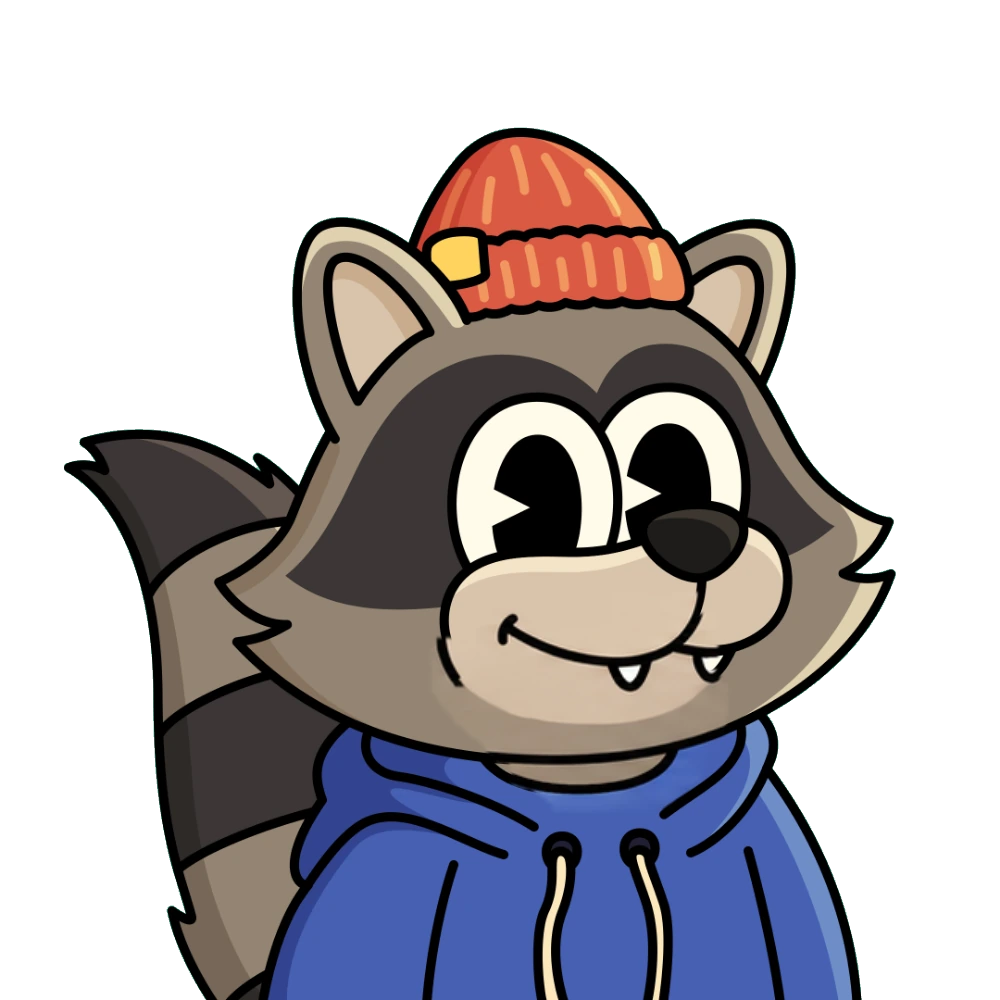
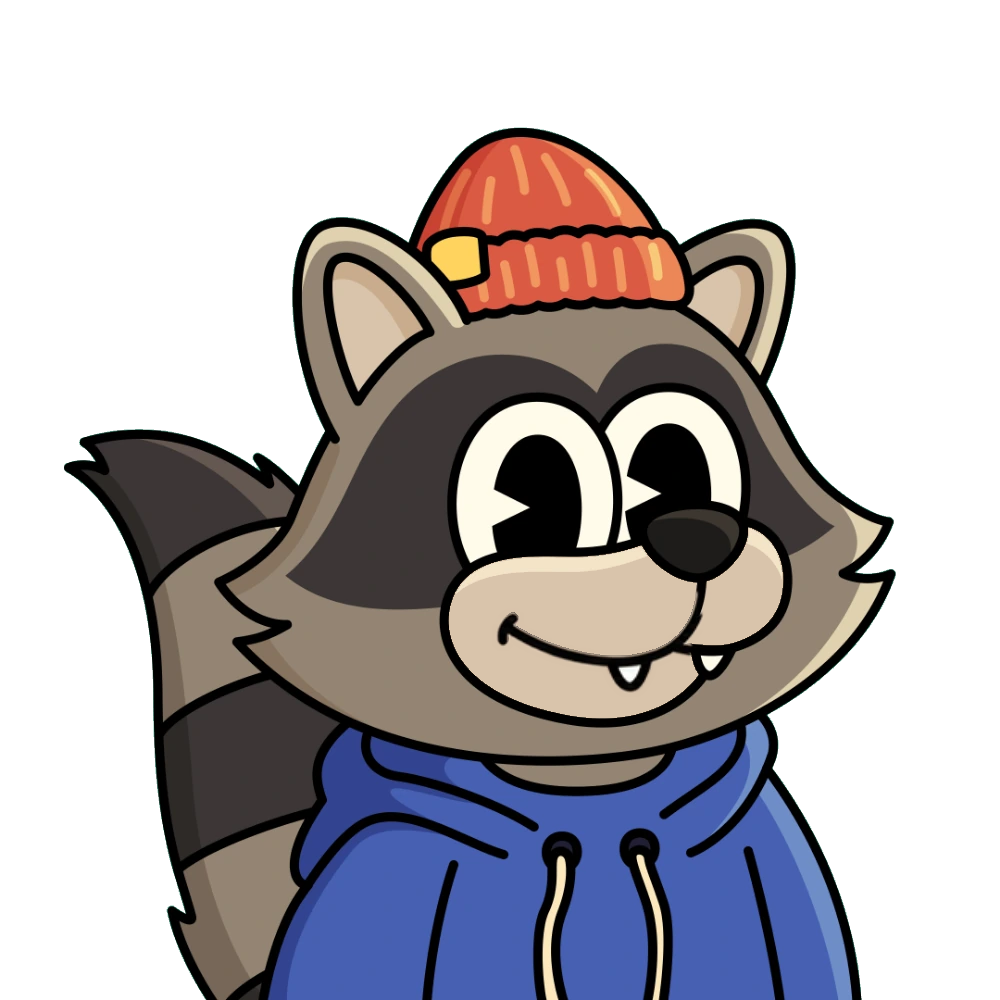
Talking mouths: cleaner kits and mouth frames for every kind
- Raccoon, Gnome and Gecko kits: the reference mouths the sheets smeared (raccoon muzzle outline missing on M/B/P, F/V and frown; a blurry patch on the gnome; mouths drawn into the gecko's closed frames) are repaired, so every Nibble of those kinds stops inheriting the smudge
- Things in front of the mouth (mustache, straw, match, gum bubble, dark magic) stay whole on top of every talking mouth instead of being cut where the mouth area ends; a talking mouth still shows through a mustache
- A Nibble's own bigger mouth (a wide beak, a big grin) no longer leaves its outline around the new mouth
- Teeth stay white (no more yellow or navy grins), and a skin colour the face doesn't have (a mauve chin) snaps to the face's own

Claude-Session: https://claude.ai/code/session_01AAjfD4JXrwKrGtAMJHTTVa

Changed region(s): [[0.434, 0.62, 0.682, 0.806], [0.651, 0.62, 0.713, 0.713]]

diff --git a/kit.js b/kit.js
@@ -123,7 +123,7 @@ function colourMap(R, T, where, okT) {
 
 // T: this Nibble's picture (background cut, 1000 px). ref: { base, mouths[10], eyes[5] } of the kind's reference.
 // Returns { frames[10], eyes[5], mouthBox, eyeBox } in the builder's format.
-export function fromKit(Timg, ref, { blink = true, dbg = null, wideFace = false, loopBody = false } = {}) {
+export function fromKit(Timg, ref, { blink = true, dbg = null, wideFace = false, loopBody = false, front = false } = {}) {
   const T = data(Timg), R = data(ref.base), K = ref.mouths.map(data);
   // Gemini's panels have small dark flecks in the fur: a dark spot too small to be part of a line takes the colour around it
   for (let k = 1; k < 10; k++) unfleck(K[k]);
@@ -271,6 +271,15 @@ export function fromKit(Timg, ref, { blink = true, dbg = null, wideFace = false,
   // this Nibble's own face colours around the mouth (a jaw shade must be one of these, not e.g. a yellow logo elsewhere)
   const tf = new Uint32Array(32768); for (let p = 0; p < N * N; p++) { if (!ring[p] && !Zd[p]) continue; const i = p * 4; if (T[i + 3] > 200) tf[bin(T[i], T[i + 1], T[i + 2])]++; }
   const faceP = palette(tf, 40, 2);
+  // the same colours as a list (mouth colours left out), to snap a recoloured skin pixel the map got wrong (a mauve chin on
+  // a white raccoon) to the nearest colour this Nibble's face really has
+  const faceList = []; { const sum = new Map();
+    for (let p = 0; p < N * N; p++) { if (!ring[p] && !Zd[p]) continue; const i = p * 4; if (T[i + 3] < 200 || lum(T, i) < 160 || mouthHue(T[i], T[i + 1], T[i + 2])) continue; const k = bin(T[i], T[i + 1], T[i + 2]);
+      let e = sum.get(k); if (!e) sum.set(k, e = [0, 0, 0, 0]); e[0] += T[i]; e[1] += T[i + 1]; e[2] += T[i + 2]; e[3]++; }
+    for (const e of sum.values()) if (e[3] >= 60) faceList.push([e[0] / e[3], e[1] / e[3], e[2] / e[3], e[3]]); }
+  const snapFace = m => { if (!faceList.length || inPal(faceP, m[0], m[1], m[2])) return m; let best = null, bd = 1e9;
+    for (const c of faceList) { const d = Math.abs(c[0] - m[0]) + Math.abs(c[1] - m[1]) + Math.abs(c[2] - m[2]); if (d < bd) { bd = d; best = c; } }
+    return best && bd < 160 ? [Math.round(best[0]), Math.round(best[1]), Math.round(best[2])] : m; };
   // this Nibble's own chin: its commonest light, non-mouth colour just below the mouth area (for skin the map can't match)
   // the reference's jaw skin: its light colours inside the mouth area that aren't snout, mouth, or its clothes (clothes reach the bottom of the picture)
   const jawC = new Uint32Array(32768), botC = new Uint32Array(32768);
@@ -353,13 +362,45 @@ export function fromKit(Timg, ref, { blink = true, dbg = null, wideFace = false,
     for (let p = 0; p < N * N; p++) { const i = p * 4, w = a[p];
       if (w <= 0) { o[i] = T[i]; o[i + 1] = T[i + 1]; o[i + 2] = T[i + 2]; o[i + 3] = T[i + 3]; continue; }
       const f = fill.get(p);
-      const m = f ? f : subst.has(p) ? subst.get(p) : keepT[p] ? [T[i], T[i + 1], T[i + 2]] : (mapped(D, i) || [T[i], T[i + 1], T[i + 2]]), da = f ? 255 : keepT[p] ? T[i + 3] : D[i + 3];
+      // teeth stay white: a white the mouth draws where the reference had no white there is teeth, never recoloured as skin
+      const teeth = !f && !keepT[p] && D[i + 3] > 200 && D[i] + D[i + 1] + D[i + 2] > 630 && Math.max(D[i], D[i + 1], D[i + 2]) - Math.min(D[i], D[i + 1], D[i + 2]) < 40 && !(R[i + 3] > 200 && R[i] + R[i + 1] + R[i + 2] > 600);
+      let m = f ? f : teeth ? [D[i], D[i + 1], D[i + 2]] : subst.has(p) ? subst.get(p) : keepT[p] ? [T[i], T[i + 1], T[i + 2]] : (mapped(D, i) || [T[i], T[i + 1], T[i + 2]]); const da = f ? 255 : keepT[p] ? T[i + 3] : D[i + 3];
+      if (!f && !teeth && !keepT[p] && !subst.has(p) && D[i + 3] > 200 && lum(D, i) >= 160 && !isMouthC(D[i], D[i + 1], D[i + 2])) m = snapFace(m);   // a skin colour this face doesn't have
       for (let ch = 0; ch < 3; ch++) o[i + ch] = Math.round(T[i + ch] * (1 - w) + m[ch] * w);
       o[i + 3] = Math.round(T[i + 3] * (1 - w) + da * w);
       if (useG[p]) { const x = p % N, y = (p / N) | 0; if (x < mb[0]) mb[0] = x; if (y < mb[1]) mb[1] = y; if (x > mb[2]) mb[2] = x; if (y > mb[3]) mb[3] = y; }
     }
     g.putImageData(id, 0, 0); frames.push(c);
   }
+  // This Nibble's own things where the mouth zone ends: the parts of it that differ from the reference (its own mouth
+  // trait, a mustache, a straw, dark magic...) that reach out past the zone. Two kinds:
+  //  - in front of the mouth (front: a mustache, straw, match, gum bubble, dark magic): drawn back over every talking
+  //    mouth, whole, so they never get cut off where the zone ends
+  //  - its own bigger mouth (a wide open beak, a big grin): the part past the zone is painted as the reference's face
+  //    there, so the old mouth's outline doesn't hang around the new one
+  { const zone = grow(Zd, 140), dif = new Uint8Array(N * N);
+    for (let p = 0; p < N * N; p++) { if (!zone[p]) continue; const i = p * 4; if (T[i + 3] < 100 && R[i + 3] < 100) continue;
+      if (Math.abs(T[i + 3] - R[i + 3]) > 80) { dif[p] = 1; continue; } const m = mapped(R, i); if (m && Math.abs(m[0] - T[i]) + Math.abs(m[1] - T[i + 1]) + Math.abs(m[2] - T[i + 2]) > 80) dif[p] = 1; }
+    const lab = new Int32Array(N * N), q = new Int32Array(N * N), fr = new Uint8Array(N * N), bh = new Uint8Array(N * N); let id = 0;
+    for (let s0 = 0; s0 < N * N; s0++) { if (!dif[s0] || lab[s0]) continue; id++; let h = 0, t = 0, inZ = 0; q[t++] = s0; lab[s0] = id;
+      while (h < t) { const p = q[h++], x = p % N; if (Zd[p]) inZ++;
+        for (const j of [x > 0 ? p - 1 : -1, x < N - 1 ? p + 1 : -1, p - N, p + N]) if (j >= 0 && j < N * N && dif[j] && !lab[j]) { lab[j] = id; q[t++] = j; } }
+      const out = t - inZ; if (!inZ || out < 40) continue;
+      if (front) { for (let k = 0; k < t; k++) fr[q[k]] = 1; continue; }
+      if (inZ < t * 0.25 || t > 30000) continue;   // mostly outside the mouth: clothes, a collar, not the mouth
+      for (let k = 0; k < t; k++) { const p = q[k], i = p * 4; if (Zd[p] || R[i + 3] < 200 || T[i + 3] < 100) continue; if (isSkin(R, i) || lum(R, i) < 160) bh[p] = 1; } }
+    let any = false; for (let p = 0; p < N * N && !any; p++) if (fr[p] || bh[p]) any = true;
+    if (any) {
+      const frm = front ? fillHoles(fr) : fr, fa = front ? soft(grow(frm, 1), 1) : null;
+      for (let k = 1; k < frames.length; k++) { const g = frames[k].getContext('2d', { willReadFrequently:true }), id2 = g.getImageData(0, 0, N, N), o = id2.data, D = K[k];
+        // (a mustache lets the talking mouth show through it, outline and all: only what the mouth leaves as face is covered)
+        const mo = front === 'mustache' ? (() => { const c = new Uint8Array(N * N); for (let p = 0; p < N * N; p++) { const i = p * 4; if (Zd[p] && D[i + 3] > 120 && dist(D, i, R, i) > 60 && (isMouthC(D[i], D[i + 1], D[i + 2]) || lum(D, i) < 200)) c[p] = 1; } return grow(blobs(c, 40), 2); })() : null;
+        for (let p = 0; p < N * N; p++) { const i = p * 4;
+          if (fa && fa[p] > 0 && !(mo && mo[p])) { const w = fa[p]; for (let ch = 0; ch < 4; ch++) o[i + ch] = Math.round(o[i + ch] * (1 - w) + T[i + ch] * w); continue; }
+          if (bh[p]) { const m = mapped(R, i); if (m) { o[i] = m[0]; o[i + 1] = m[1]; o[i + 2] = m[2]; o[i + 3] = R[i + 3]; } } }
+        g.putImageData(id2, 0, 0); }
+      for (let p = 0; p < N * N; p++) if (frm[p] || bh[p]) { const x = p % N, y = (p / N) | 0; if (x < mb[0]) mb[0] = x; if (y < mb[1]) mb[1] = y; if (x > mb[2]) mb[2] = x; if (y > mb[3]) mb[3] = y; }
+    } }
   if (mb[2] < mb[0]) mb = [0, 0, 0, 0];
   // the blink: the reference's half-closed and closed eye layers, recoloured
   let eyes = [null, null, null, null, null], eb = [0, 0, 0, 0];

diff --git a/index.html b/index.html
@@ -418,7 +418,7 @@ header .credit b{font-weight:400}
 // Config
 // ---------------------------------------------------------------------------
 const MP_VERSION = '0.10.14';
-const ART_V = '20261116-1400';   // bump when art changes, so phones never show old cached frames
+const ART_V = '20261116-1600';   // bump when art changes, so phones never show old cached frames
 const MP_MODEL = 'https://storage.googleapis.com/mediapipe-models/face_landmarker/face_landmarker/float16/1/face_landmarker.task';
 
 // Each Nibble: eye layers e0–e4 and ten whole-face mouth frames m0–m9, all lined up at 1000×1000.
@@ -919,8 +919,10 @@ const kitFor = t => { const a = t && t.a; if (groupOf(a)) return groupOf(a).ref;
 // eyes that don't blink: fire, lasers, X / knocked out, spirals, slot machines, glasses and anything worn over the eyes
 const NO_BLINK = /fire|ignis|laser|knocked|dizzy|slot|3d|glasses|monocle|robot|anatomy|empty|whites|eyepatch|button|glowing|magic|three|awooga|burglar/i;
 const blinks = a => !NO_BLINK.test(String(a.Eyes || '')) && !/glasses|goggles|visor|opera mask/i.test(String(a.Accessory || ''));
+// things in front of the mouth, kept whole on top of every talking mouth (kit.js)
+const FRONT_MOUTH = /mustache|straw|match|bubbles/i, FRONT_ACC = /dark magic/i;
 const KIT_BUSY = {};
-window.__nf = { setEye:k => { S.forceEye = k; }, setMouth:k => { S.forceMouth = k; }, setPose:p => { S.forcePose = p; }, setShape:n => setShape(n),
+window.__nf = { setEye:k => { S.forceEye = k; }, setMouth:k => { S.forceMouth = k; }, setPose:p => { S.forcePose = p; }, faceAt:id => FACE_AT[id], setShape:n => setShape(n),
   groupShot:async (ids, shape, gl, slots) => {   // (tests) one frame of a group layout
     Object.assign(GLS[shape], gl || {}); if (slots) GLS[shape].slots = slots; setShape(shape);
     VM.people = ids.map(() => ({ smp:[] })); VM.cast = {}; ids.forEach((id, i) => VM.cast[i] = id); VM.same = {}; VM.flip = {}; VM.mirror = {}; VM.group = 'all'; VM.arts = {};
@@ -944,7 +946,8 @@ async function kitPrepare(id) {
       const [B, K] = await Promise.all([import('./builder.js?v=' + ART_V), import('./kit.js?v=' + ART_V)]);
       const im = new Image(); im.crossOrigin = 'anonymous'; im.src = nibblePic(id); await im.decode();
       const cut = B.cutOriginal(im), { art } = await fetchNibble(ref);
-      const res = K.fromKit(cut.canvas, { base:art.base, mouths:art.mouths, eyes:art.eyes }, { blink:blinks(a) && !KIT_NO_BLINK.has(kind) && !(groupOf(a) && groupOf(a).noBlink && groupOf(a).noBlink.test(String(a.Eyes || ''))), wideFace:!!(groupOf(a) && groupOf(a).wideFace), loopBody:!!(groupOf(a) && groupOf(a).loop) });
+      const res = K.fromKit(cut.canvas, { base:art.base, mouths:art.mouths, eyes:art.eyes }, { blink:blinks(a) && !KIT_NO_BLINK.has(kind) && !(groupOf(a) && groupOf(a).noBlink && groupOf(a).noBlink.test(String(a.Eyes || ''))), wideFace:!!(groupOf(a) && groupOf(a).wideFace), loopBody:!!(groupOf(a) && groupOf(a).loop),
+        front:FRONT_ACC.test(String(a.Accessory || '')) ? true : /mustache/i.test(String(a.Mouth || '')) ? 'mustache' : FRONT_MOUTH.test(String(a.Mouth || '')) });
       res.face = FACE_AT[ref];
       res.traits = B.findTraits(cut.canvas, res, kind, cut.bg, { halo:/halo/i.test(String(a.Accessory || '')), fire:/fire/i.test(String(a.Eyes || '')), laser:/laser/i.test(String(a.Eyes || '')) });
       const exp = await B.exportFiles(res, cut.canvas), files = {};

diff --git a/tools/fix_muzzle.py b/tools/fix_muzzle.py
@@ -1,0 +1,45 @@
+# Repairs closed-mouth kit frames whose muzzle the AI sheet smeared (its lower outline gone, the muzzle colour bleeding
+# into the fur): the mouth's own drawing (lines, teeth, fangs, inside) stays; inside the muzzle everything else is the
+# muzzle's own colour from the picture; outside it (the outline, the fur) the picture's own pixels.
+# usage: python3 tools/fix_muzzle.py <id> <seedx,seedy> <k,k,...>   (repo root)
+import sys
+import numpy as np
+from PIL import Image
+from scipy import ndimage
+tid, seed, ks = sys.argv[1], [int(v) for v in sys.argv[2].split(',')], [int(k) for k in sys.argv[3].split(',')]
+base = np.array(Image.open(f'faces/{tid}/base.webp').convert('RGBA')).astype(float)
+lum = lambda a: a[..., 0] * 0.3 + a[..., 1] * 0.59 + a[..., 2] * 0.11
+ink = (lum(base) < 110) | (base[..., 3] < 128)
+lab, n = ndimage.label(~ink); s0 = lab[seed[1], seed[0]]; c0 = base[lab == s0][:, :3].mean(0)
+# the muzzle: the seed's region and every other region of the same colour beside it (the mouth line splits it in parts)
+M = lab == s0
+for _ in range(3):
+    ring = ndimage.binary_dilation(M, iterations=12) & ~M
+    for l in np.unique(lab[ring]):
+        if l == 0: continue
+        R = lab == l
+        if R.sum() < 200 or R.sum() > 60000: continue
+        if np.abs(base[R][:, :3].mean(0) - c0).sum() < 40: M |= R
+M = ndimage.binary_fill_holes(ndimage.binary_closing(M, iterations=6))
+white = (lum(base) > 225) & (np.ptp(base[..., :3], -1) < 30)
+inner = M & ~ink & ~white
+tan = np.median(base[inner][:, :3], 0)
+print('muzzle px', int(M.sum()), 'tan', tan)
+for k in ks:
+    f = np.array(Image.open(f'faces/{tid}/m{k}.webp').convert('RGBA')).astype(float)
+    r, g, b = f[..., 0], f[..., 1], f[..., 2]
+    mouthy = (lum(f) < 100) | ((r > 120) & (g < r * 0.6)) | ((r > 200) & (b > 140) & (g < 170)) | ((lum(f) > 215) & (np.ptp(f[..., :3], -1) < 35))
+    keep = mouthy & M & (f[..., 3] > 200)
+    keep = ndimage.binary_opening(keep, iterations=1)
+    lab2, n = ndimage.label(keep); sz = ndimage.sum(keep, lab2, range(1, n + 1)); keep = np.isin(lab2, [i + 1 for i, s in enumerate(sz) if s >= 25])
+    keep = ndimage.binary_dilation(keep, iterations=2) & M
+    out = base.copy()
+    edge = ink & ~ndimage.binary_erosion(M, iterations=9)   # the muzzle's outline (the picture's own mouth lines inside it go)
+    sel = M & ~keep; out[sel, :3] = np.where(edge[sel][:, None], base[sel][:, :3], tan)
+    # the muzzle's own highlight from the picture where the picture has no mouth drawing there
+    hl = M & ~keep & ~ink & ~white & ~ndimage.binary_dilation(ink & ~edge, iterations=3) & (lum(base) > lum(tan[None, None, :])[0, 0] + 8)
+    out[hl, :3] = base[hl, :3]
+    a = ndimage.gaussian_filter(keep.astype(float), 1.0)[..., None]
+    out = f * a + out * (1 - a)
+    Image.fromarray(np.clip(out, 0, 255).astype(np.uint8), 'RGBA').save(f'faces/{tid}/m{k}.webp', lossless=True)
+    print('fixed', k, int(keep.sum()))

diff --git a/tools/fix_kit_frames.py b/tools/fix_kit_frames.py
@@ -1,0 +1,35 @@
+# Repairs a kit reference's talking frames that the AI sheet drew badly around the mouth (a muzzle outline left out, a
+# blurry patch on the fur): outside the mouth's own drawing (its lines, inside, teeth, tongue, grown a little) the frame
+# takes the original picture's pixels, softly blended at the edge. "copy0" frames have no mouth drawn at all and become
+# the resting mouth.
+# usage: python3 tools/fix_kit_frames.py <id> <k,k,...> [copy0:k,k]   (repo root)
+import sys
+import numpy as np
+from PIL import Image
+from scipy import ndimage
+tid, ks = sys.argv[1], [int(k) for k in sys.argv[2].split(',') if k]
+copy0 = [int(k) for k in sys.argv[3].split(':')[1].split(',')] if len(sys.argv) > 3 else []
+base = np.array(Image.open(f'faces/{tid}/base.webp').convert('RGBA')).astype(float)
+m0 = Image.open(f'faces/{tid}/m0.webp')
+for k in copy0: m0.save(f'faces/{tid}/m{k}.webp', lossless=True); print('copied m0 ->', k)
+def lum(a): return a[..., 0] * 0.3 + a[..., 1] * 0.59 + a[..., 2] * 0.11
+for k in ks:
+    f = np.array(Image.open(f'faces/{tid}/m{k}.webp').convert('RGBA')).astype(float)
+    d = np.abs(f[..., :3] - base[..., :3]).sum(-1)
+    # the mouth's drawing: what changed AND is a line, the dark inside, red, pink or white teeth (not a lighter/darker fur blur)
+    r, g, b = f[..., 0], f[..., 1], f[..., 2]
+    mouthy = (lum(f) < 90) | ((r > 120) & (g < r * 0.6)) | ((r > 200) & (b > 140) & (g < 170)) | ((lum(f) > 225) & (np.ptp(f[..., :3], -1) < 30))
+    m = (d > 80) & mouthy & (f[..., 3] > 200)
+    m = ndimage.binary_opening(m, iterations=1)
+    lab, n = ndimage.label(m); sizes = ndimage.sum(m, lab, range(1, n + 1))
+    keep = np.isin(lab, [i + 1 for i, s in enumerate(sizes) if s >= 60])
+    # and the base's own mouth it replaces must go too: the area of the base's mouth drawing near it
+    bm = ((lum(base) < 90) | ((base[..., 0] > 200) & (base[..., 2] > 140) & (base[..., 1] < 170))) & (base[..., 3] > 200)
+    region = ndimage.binary_dilation(keep, iterations=14)
+    near_base_mouth = bm & ndimage.binary_dilation(keep, iterations=40) & (np.abs(f[..., :3] - base[..., :3]).sum(-1) > 80)
+    region |= ndimage.binary_dilation(near_base_mouth, iterations=3)
+    a = ndimage.gaussian_filter(region.astype(float), 3)
+    a = np.clip(a * 1.6, 0, 1)[..., None]
+    out = f * a + base * (1 - a)
+    Image.fromarray(np.clip(out, 0, 255).astype(np.uint8), 'RGBA').save(f'faces/{tid}/m{k}.webp', lossless=True)
+    print('fixed', tid, k, int(keep.sum()))
